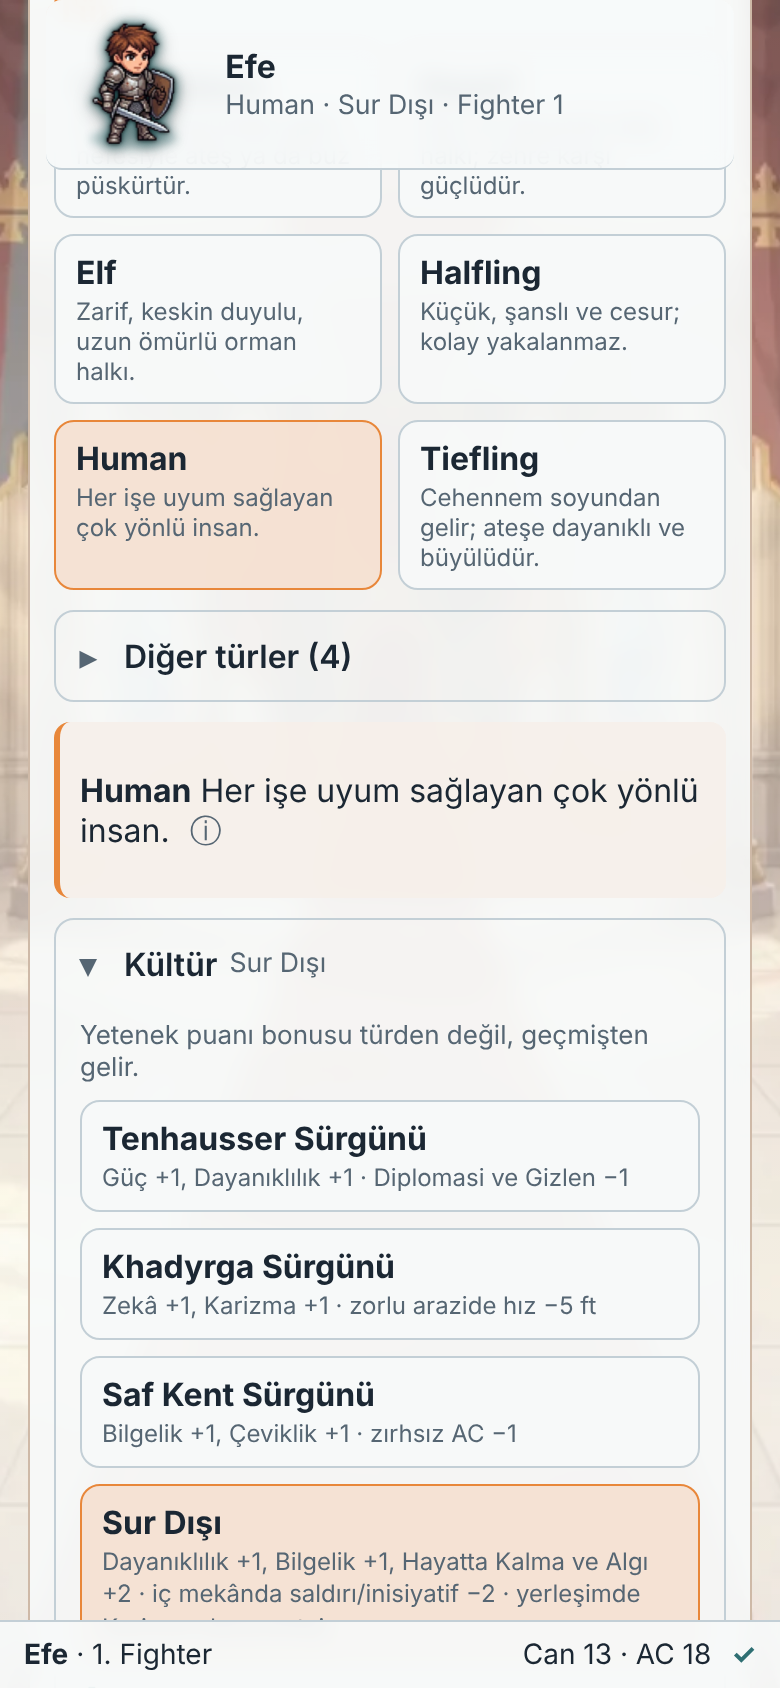
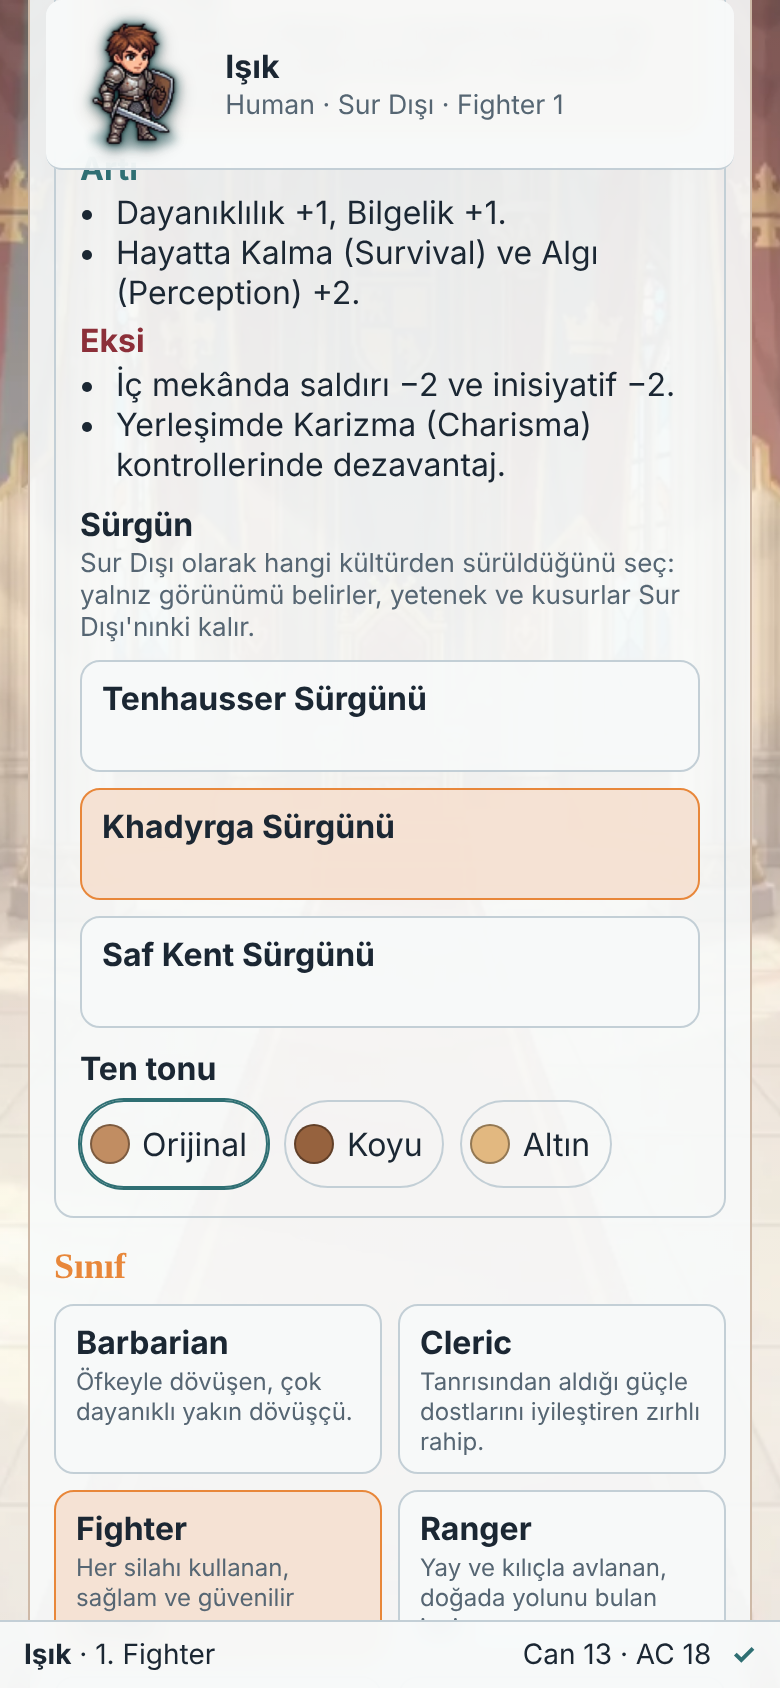
AS1b duzeltmesi: Human kulturleri eksiz (Tenhausser, Khadyrga, Saf Kent, Sur Disi), Sur Disi'nda Surgun secimi (yalniz gorunum), kultur-ten eslemesi bos
altSoy41.test.tsx beklentileri guncellendi: kullanici karari (adlarda Surgunu eki yok, kulturTen bos).

Claude-Session: https://claude.ai/code/session_01QX2JP9fDy5HJooyXwp1KYQ

diff --git a/src/rules/as1bSurgun.test.tsx b/src/rules/as1bSurgun.test.tsx
@@ -1,0 +1,69 @@
+/**
+ * Görev AS1b düzeltmesi (kullanıcı): Human kültürleri Tenhausser, Khadyrga, Saf Kent, Sur Dışı ("Sürgünü" eki yok). Sur Dışı
+ * seçilince ek "Sürgün" seçimi (yalnız üç kültür; yalnız görünüm, buff/debuff Sur Dışı'nınki). Başka kültürde görünmez,
+ * Sur Dışı'ndan çıkınca sıfırlanır. Kültür–ten eşlemesi boşken üç ton serbest; eşleme dolunca (yalnız veri) sürgün tonu belirler.
+ */
+import { afterEach, describe, expect, it } from 'vitest';
+import { renderToStaticMarkup } from 'react-dom/server';
+import { Builder } from '../screens/Builder';
+import { blankCharacter, type SavedCharacter } from './builder';
+import { setLang } from '../i18n';
+import { races } from '../data';
+import { lineageSummary } from './lineage';
+import { CULTURE_SKIN, EXILE, exileName, exileOf, exileOptions, pickCulture, SKIN_TONES, toneAfter, tonesFor } from '../ui/lineageLook';
+
+const char = (patch: Partial<SavedCharacter['sheet']>): SavedCharacter => { const b = blankCharacter('as1b'); return { ...b, sheet: { ...b.sheet, name: 'Alt', ...patch } }; };
+const html = (c: SavedCharacter) => renderToStaticMarkup(<Builder initial={c} onSave={() => {}} onCancel={() => {}} step="character" />);
+const human = () => races.find((r) => r.id === 'human');
+
+afterEach(() => setLang('tr'));
+
+describe('AS1b düzeltmesi: Human kültürleri ve Sur Dışı sürgünü', () => {
+  it('kültür adları ekisiz; Sur Dışı\'nda Sürgün seçimi yalnız üç seçenekle; diğer kültürlerde yok', () => {
+    expect(human()?.lineages?.map((l) => l.ad?.tr)).toEqual(['Tenhausser', 'Khadyrga', 'Saf Kent', 'Sur Dışı']);
+    const out = html(char({ raceId: 'human', lineageId: 'outwall' }));
+    expect((out.match(/class="pick-card exile-card( on)?"/g) ?? []).length).toBe(3);
+    for (const n of ['Tenhausser Sürgünü', 'Khadyrga Sürgünü', 'Saf Kent Sürgünü']) expect(out).toContain(n);
+    expect(exileOptions('outwall')).toEqual(['tenhausser', 'khadyrga', 'pure-city']);
+    for (const k of ['tenhausser', 'khadyrga', 'pure-city']) {
+      expect(exileOptions(k)).toEqual([]);
+      expect(html(char({ raceId: 'human', lineageId: k }))).not.toContain('exile-card');
+    }
+  });
+  it('Sur Dışı\'ndan çıkınca sürgün sıfırlanır; Sur Dışı\'nda kalınca korunur; geçersiz sürgün yok sayılır', () => {
+    const s = { lineageId: 'outwall', exileCulture: 'khadyrga', skinTone: 'siyahi' };
+    expect(pickCulture(s, 'tenhausser').exileCulture).toBeUndefined();
+    expect(pickCulture(s, 'outwall').exileCulture).toBe('khadyrga');
+    expect(exileOf('outwall', 'outwall')).toBeUndefined();
+    expect(exileOf('tenhausser', 'khadyrga')).toBeUndefined();
+  });
+  it('buff/debuff her zaman Sur Dışı\'nınki (sürgün seçimi değiştirmez)', () => {
+    const outwall = human()?.lineages?.find((l) => l.id === 'outwall');
+    const a = html(char({ raceId: 'human', lineageId: 'outwall' }));
+    const b = html(char({ raceId: 'human', lineageId: 'outwall', exileCulture: 'tenhausser' }));
+    const sum = outwall ? lineageSummary(outwall, 'tr') : '';
+    expect(sum.length).toBeGreaterThan(0);
+    expect(a).toContain(sum); expect(b).toContain(sum);
+    expect(b.replace(/ on"/g, '"').replace(/aria-checked="true"/g, 'aria-checked="false"')).toBe(a.replace(/ on"/g, '"').replace(/aria-checked="true"/g, 'aria-checked="false"'));
+  });
+  it('eşleme boşken üç ton serbest; eşleme tek tona inince (yalnız veri) sürgün görünümü belirler', () => {
+    expect(CULTURE_SKIN).toEqual({});
+    expect(tonesFor('outwall', 'tenhausser')).toEqual(SKIN_TONES);
+    expect(toneAfter('outwall', 'tenhausser', 'siyahi')).toBe('siyahi');
+    CULTURE_SKIN.tenhausser = ['dogu-asyali'];
+    try {
+      expect(tonesFor('outwall', 'tenhausser').map((t) => t.id)).toEqual(['dogu-asyali']);
+      expect(toneAfter('outwall', 'tenhausser', 'siyahi')).toBe('dogu-asyali');
+      expect(tonesFor('outwall', 'khadyrga')).toEqual(SKIN_TONES);
+    } finally { delete CULTURE_SKIN.tenhausser; }
+  });
+  it('eski kayıt (sürgün alanı yok) etkilenmez; TR/EN metinler', () => {
+    expect(html(char({ raceId: 'human', lineageId: 'outwall' }))).toContain('Sürgün');
+    expect(Object.keys(EXILE.ad).sort()).toEqual(['khadyrga', 'pure-city', 'tenhausser']);
+    expect(exileName('pure-city', 'en')).toBe('Pure City Exile');
+    setLang('en');
+    const en = html(char({ raceId: 'human', lineageId: 'outwall' }));
+    expect(en).toContain('Tenhausser Exile');
+    expect(en).toContain('Exile');
+  });
+});

diff --git a/src/screens/Builder.tsx b/src/screens/Builder.tsx
@@ -42,7 +42,7 @@ import { AvatarBadge, CharacterFigure, preloadImages } from '../ui/Avatar';
 import { abilityTip, lineageAbilityList, lineageLine } from '../ui/lineageText';
 import { lineageName, lineageOf, lineageSummary, raceDarkvision, raceSpeed, type LineageAbility } from '../rules/lineage';
 import { lineageNotes } from '../ui/lineageNotes';
-import { skinToneOf, tonesFor } from '../ui/lineageLook';
+import { exileName, exileOptions, pickCulture, skinToneOf, toneAfter, tonesFor } from '../ui/lineageLook';
 import { MI_LISTS, backgroundOf, backgroundSkills, backgrounds, bonusesOf, magicInitiateAll, magicInitiateOf, magicInitiateOptions, originFeatOf, otherSkillMax, type MagicInitiatePick } from '../rules/backgrounds';
 import { armorDetail, armorSummary, itemDetail, itemSummary, weaponDetail, weaponSummary } from '../ui/equipmentText';
 import { getLang, t } from '../i18n';
@@ -426,7 +426,7 @@ function RaceStep({ sheet: s, set }: { sheet: CharacterSheet; set: (patch: Parti
   const others = races.filter((r) => !RACE_FEATURED.includes(r.id));
   const card = (r: (typeof races)[number]) => (
     <button key={r.id} className={`pick-card${r.id === s.raceId ? ' on' : ''}`} aria-pressed={r.id === s.raceId}
-      onClick={() => set({ raceId: r.id, lineageId: r.lineages?.[0]?.id })}>
+      onClick={() => set({ raceId: r.id, lineageId: r.lineages?.[0]?.id, exileCulture: undefined })}>
       <b>{r.name}</b><small>{raceBlurb(r.id, lang)}</small>
     </button>
   );
@@ -457,7 +457,7 @@ function RaceStep({ sheet: s, set }: { sheet: CharacterSheet; set: (patch: Parti
           <div className="card-grid lineage-grid" role="radiogroup" aria-label={W.lineageTitle}>
             {(race.lineages ?? []).map((l) => (
               <button key={l.id} role="radio" aria-checked={l.id === lineage?.id} className={`pick-card lineage-card${l.id === lineage?.id ? ' on' : ''}`}
-                onClick={() => set({ lineageId: l.id })}>
+                onClick={() => set(race.id === 'human' ? pickCulture(s, l.id) : { lineageId: l.id })}>
                 <b>{lineageName(l, lang)}</b>
                 <small>{lineageSummary(l, lang)}</small>
               </button>
@@ -467,10 +467,28 @@ function RaceStep({ sheet: s, set }: { sheet: CharacterSheet; set: (patch: Parti
           {lineage && <LineageNotes raceId={race.id} lineage={lineage} />}
           {race.id === 'human' && (
             <>
+              {/* Görev AS1b düzeltmesi: Sur Dışı'nda "Sürgün" seçimi (yalnız görünüm; buff/debuff Sur Dışı'nınki). */}
+              {exileOptions(s.lineageId).length > 0 && (
+                <>
+                  <h4 className="lineage-title">{W.exileTitle}</h4>
+                  <p className="mute race-note">{W.exileHelp}</p>
+                  <div className="card-grid lineage-grid exile-grid" role="radiogroup" aria-label={W.exileTitle}>
+                    {exileOptions(s.lineageId).map((id) => {
+                      const on = s.exileCulture === id;
+                      return (
+                        <button key={id} type="button" role="radio" aria-checked={on} className={`pick-card exile-card${on ? ' on' : ''}`} data-exile={id}
+                          onClick={() => set({ exileCulture: id, skinTone: toneAfter(s.lineageId, id, s.skinTone) })}>
+                          <b>{exileName(id, lang)}</b>
+                        </button>
+                      );
+                    })}
+                  </div>
+                </>
+              )}
               <h4 className="lineage-title">{W.skinTitle}</h4>
               {/* Kuyruk AS1a: ten tonu kültürden bağımsız ayrı seçim (kültür–ten eşlemesi veride boş). */}
               <div className="skin-tones" role="radiogroup" aria-label={W.skinTitle}>
-                {tonesFor(s.lineageId).map((tone) => {
+                {tonesFor(s.lineageId, s.exileCulture).map((tone) => {
                   const on = skinToneOf(s.skinTone)?.id === tone.id;
                   return (
                     <button key={tone.id} type="button" role="radio" aria-checked={on} className={`skin-tone${on ? ' on' : ''}`} data-tone={tone.id} onClick={() => set({ skinTone: tone.id })}>

diff --git a/src/ui/lineageLook.ts b/src/ui/lineageLook.ts
@@ -30,7 +30,8 @@ const D = data as unknown as {
   orijinal: string[];
   celestialUyanis: Record<string, { hale: boolean; filtre?: string; kanat?: string }>;
   hale: { gizleUstYuzde: number };
-  ten: { varsayilan: string; filtreUygula: boolean; tonlar: SkinTone[]; kulturTen: Record<string, string[]> };
+  ten: { varsayilan: string; filtreUygula: boolean; tonlar: SkinTone[]; kulturTen: Record<string, string[]>;
+    surgun: { kultur: string; secenekler: string[]; ad: Record<string, { tr: string; en: string }> } };
 };
 /** Celestial Göksel Uyanış 3. seviyeden etkin (`data/celestial.json` `awakening.minLevel`; test eşitliği denetler). */
 export const AWAKENING_FROM = 3;
@@ -40,7 +41,34 @@ export const SKIN_TONES: SkinTone[] = D.ten.tonlar;
 export const DEFAULT_SKIN_TONE = D.ten.varsayilan;
 /** Kültür (alt soy) → seçilebilecek ten tonları (`ten.kulturTen`; AS1b'de üç kültürde de üç ton). */
 export const CULTURE_SKIN: Record<string, string[]> = D.ten.kulturTen;
-export const tonesFor = (lineageId: string | undefined): SkinTone[] => SKIN_TONES.filter((t) => !lineageId || !CULTURE_SKIN[lineageId] || CULTURE_SKIN[lineageId]!.includes(t.id));
+/** Görev AS1b düzeltmesi: Sur Dışı'nın "Sürgün" seçimi (veri `ten.surgun`). */
+export const EXILE = D.ten.surgun;
+/** Bu kültürde sürgün seçimi var mı; varsa seçenekler (yalnız üç kültür). */
+export const exileOptions = (lineageId: string | undefined): string[] => (lineageId && lineageId === EXILE.kultur ? EXILE.secenekler : []);
+export const exileName = (id: string, lang: 'tr' | 'en'): string => EXILE.ad[id]?.[lang] ?? id;
+/** Geçerli sürgün kültürü (Sur Dışı değilse ya da listede yoksa yok). */
+export const exileOf = (lineageId: string | undefined, exile: string | undefined): string | undefined =>
+  exile && exileOptions(lineageId).includes(exile) ? exile : undefined;
+/**
+ * Seçilebilir ten tonları: kültürün (Sur Dışı'nda seçili sürgün kültürünün) `kulturTen` satırından; satır yok ya da boşsa bütün
+ * tonlar serbest. Satır tek tona inerse görünümü o belirler (oluşturucu kendiliğinden seçer).
+ */
+export const tonesFor = (lineageId: string | undefined, exile?: string): SkinTone[] => {
+  const key = exileOf(lineageId, exile) ?? lineageId;
+  const list = key ? CULTURE_SKIN[key] : undefined;
+  return list?.length ? SKIN_TONES.filter((t) => list.includes(t.id)) : SKIN_TONES;
+};
+/** Kültür/sürgün değişince ton: izinli değilse ya da tek ton varsa ilk izinli ton; yoksa aynen. */
+export function toneAfter(lineageId: string | undefined, exile: string | undefined, current: string | undefined): string | undefined {
+  const ts = tonesFor(lineageId, exile);
+  if (ts.length === SKIN_TONES.length && ts.length > 1) return current;
+  return ts.length === 1 || !ts.some((t) => t.id === current) ? ts[0]?.id ?? current : current;
+}
+/** Kültür seçimi: Sur Dışı'ndan çıkınca sürgün seçimi sıfırlanır; ton izinli değilse ilk izinliye. */
+export function pickCulture(sheet: { lineageId?: string; exileCulture?: string; skinTone?: string }, lineageId: string): { lineageId: string; exileCulture: string | undefined; skinTone: string | undefined } {
+  const exile = exileOf(lineageId, sheet.exileCulture);
+  return { lineageId, exileCulture: exile, skinTone: toneAfter(lineageId, exile, sheet.skinTone) };
+}
 /** Kuyruk AS1a-2: boyasız ORİJİNAL jetonla gelen alt soylar (`<ırk>/<alt soy>`; filtre/tint/maske yok, yalnız oran). */
 export const ORIGINAL_LINEAGES: string[] = D.orijinal;
 export const isOriginalLineage = (key: string): boolean => D.orijinal.includes(key);

diff --git a/src/rules/altSoy41.test.tsx b/src/rules/altSoy41.test.tsx
@@ -138,12 +138,14 @@ describe('oluşturucu: soy kartları', () => {
   it('Human: 4 kültür kartı + ayrı ten tonu seçici; ten kültüre bağlı değil (eşleme alanı boş)', () => {
     const m = html(char({ raceId: 'human', lineageId: 'khadyrga' }));
     expect((m.match(/lineage-card/g) ?? []).length).toBeGreaterThanOrEqual(4);
-    for (const n of ['Tenhausser Sürgünü', 'Khadyrga Sürgünü', 'Saf Kent Sürgünü', 'Sur Dışı']) expect(m, n).toContain(n);
+    // AS1b düzeltmesi (kullanıcı): ilk üç kültürün adında "Sürgünü" eki yok.
+    for (const n of ['Tenhausser', 'Khadyrga', 'Saf Kent', 'Sur Dışı']) expect(m, n).toContain(n);
+    expect(m).not.toContain('Sürgünü');
     expect(m).toContain('Kültür');
     expect((m.match(/class="skin-tone( on)?"/g) ?? []).length).toBe(3);
     expect(SKIN_TONES.map((t) => t.id)).toEqual(['orijinal', 'siyahi', 'dogu-asyali']);
-    // AS1b: her kültür üç tonu da seçebilir.
-    for (const k of ['tenhausser', 'khadyrga', 'pure-city', 'outwall']) expect(CULTURE_SKIN[k]).toEqual(['orijinal', 'siyahi', 'dogu-asyali']);
+    // AS1b düzeltmesi (kullanıcı): kültür–ten eşlemesi BOŞ (kullanıcı dolduracak); satır yokken üç ton serbest.
+    expect(CULTURE_SKIN).toEqual({});
     expect(html(char({ raceId: 'elf', lineageId: 'drow' }))).not.toContain('skin-tone');
   });
   it('seçili alt soyun buff/debuff açıklaması ve "planlı" etiketi görünür; İngilizce metin de var', () => {

diff --git a/src/i18n/strings.ts b/src/i18n/strings.ts
@@ -332,7 +332,7 @@ const tr = {
       // Kuyruk AS1a: alt soy buff/debuff açıklamaları (yalnızca metin; etkisi henüz oyunda çalışmıyor).
       lineageBuff: 'Artı', lineageDebuff: 'Eksi', lineageStatus: { calisir: 'çalışır', kismi: 'kısmi', planli: 'planlı' } as Record<string, string>, lineageNotYet: 'Bu etkiler henüz oyunda çalışmıyor (planlı); şimdilik yalnızca açıklama.',
       lineageOptionalHint: 'Alt soy seçilmedi: seçene dek alt soy etkisi yok.',
-      skinTitle: 'Ten tonu', skinHelp: 'Ten tonu kültürden bağımsızdır; istediğin kültürle istediğin tonu seçebilirsin.',
+      skinTitle: 'Ten tonu', exileTitle: 'Sürgün', exileHelp: 'Sur Dışı olarak hangi kültürden sürüldüğünü seç: yalnız görünümü belirler, yetenek ve kusurlar Sur Dışı\'nınki kalır.', skinHelp: 'Ten tonu kültürden bağımsızdır; istediğin kültürle istediğin tonu seçebilirsin.',
       cultureTitle: 'Kültür',
       lineageAbilities: 'Soy yetenekleri', preview: 'Jeton önizlemesi',
       notInGame: 'henüz oyunda yok', offCombat: 'savaş dışı: Game Master anlatır',

diff --git a/src/i18n/strings.en.ts b/src/i18n/strings.en.ts
@@ -315,7 +315,7 @@ export const en: Strings = {
       // Kuyruk AS1a: sub-lineage buff/debuff descriptions (text only; effects do not work in the game yet).
       lineageBuff: 'Plus', lineageDebuff: 'Minus', lineageStatus: { calisir: 'works', kismi: 'partial', planli: 'planned' } as Record<string, string>, lineageNotYet: 'These effects do not work in the game yet (planned); description only for now.',
       lineageOptionalHint: 'No sub-lineage chosen: no sub-lineage effect until you pick one.',
-      skinTitle: 'Skin tone', skinHelp: 'Skin tone is independent of culture; pick any tone with any culture.',
+      skinTitle: 'Skin tone', exileTitle: 'Exile', exileHelp: 'As an Outwall, pick the culture you were exiled from: it only sets your look; traits and flaws stay Outwall\'s.', skinHelp: 'Skin tone is independent of culture; pick any tone with any culture.',
       cultureTitle: 'Culture',
       lineageAbilities: 'Lineage abilities', preview: 'Token preview',
       notInGame: 'not in the game yet', offCombat: 'out of combat: the Game Master narrates',

diff --git a/src/rules/stats.ts b/src/rules/stats.ts
@@ -62,6 +62,8 @@ export interface CharacterSheet {
   soyKapali?: true;
   /** Kuyruk AS1a: Human ten tonu (`data/alt-soy-gorunum.json` `ten.tonlar`); kültürden bağımsız, yalnızca görünüm. */
   skinTone?: string;
+  /** Görev AS1b düzeltmesi: Human Sur Dışı'nın sürgün kültürü (yalnız görünüm; buff/debuff Sur Dışı'nınki). Eski kayıtta yok. */
+  exileCulture?: string;
   /** Taşıdığı silahlar (data/weapons.json adları), isteğe bağlı büyülü bonusla. */
   weapons?: Array<{ name: string; enchant?: number }>;
   /** Yan eldeki Light silah (data/weapons.json adı; Görev P1): Light özelliğinin ek saldırısı. Kalkanla olmaz. */

diff --git a/src/styles.css b/src/styles.css
@@ -1367,3 +1367,4 @@ button.cta.soft { opacity: .65; }
 .setup-mount { display: flex; flex-wrap: wrap; gap: 6px; align-items: center; max-width: min(100%, 420px); }
 .setup-mount small { flex-basis: 100%; }
 .preview-card .pv-mount span { white-space: normal; }
+.pick-card.exile-card { min-height: 0; }

diff --git a/DECISIONS.md b/DECISIONS.md
@@ -2,6 +2,14 @@
 
 Projede alınan içerik ve kural kararlarının kaydı. En yeni karar en üstte.
 
+## 2026-11-12 — Görev AS1b düzeltmesi (kullanıcı): Human kültürleri ve Sur Dışı sürgünü (yalnız oluşturucu/görünüm; kural sürümü 77, kayıt sürümü değişmedi)
+
+- **Adlar:** kültür kartları Tenhausser, Khadyrga, Saf Kent (EN Pure City), Sur Dışı; ilk üçünde "Sürgünü/Exile" eki kalktı (`data/races.json` `ad`; hizalanma gerekçe metinleri de). Kart buff/debuff metinleri aynen.
+- **Kültür–ten eşlemesi BOŞ** (`data/alt-soy-gorunum.json` `ten.kulturTen: {}`; AS1c'de üç kültüre üç ton açıktı). Ten tonu seçicisi (Orijinal/Koyu/Altın) aynen.
+- **Sur Dışı sürgünü:** Sur Dışı seçilince "Sürgün" seçimi: Tenhausser Sürgünü, Khadyrga Sürgünü, Saf Kent Sürgünü (veri `ten.surgun`: kültür, seçenekler, TR/EN ad). Karakterde isteğe bağlı `exileCulture` (eski kayıtta yok, etkilenmez). Yalnız görünüm: buff/debuff ve mekanik her zaman Sur Dışı'nınki. Başka kültürde seçim görünmez; Sur Dışı'ndan çıkınca ya da tür değişince sıfırlanır (`lineageLook.ts` `pickCulture`).
+- **Geçici davranış:** sürgün kültürünün `kulturTen` satırı yok/boşken üç ton serbest; satır tek tona inince o ton kendiliğinden seçilir ve seçici yalnız onu gösterir (`tonesFor`, `toneAfter`; yalnız veri doldurulur, kod değişmez). Aynı kural Sur Dışı dışındaki kültürlerin kendi satırına da uygulanır.
+- **Testler:** `src/rules/as1bSurgun.test.tsx` (5); `altSoy41.test.tsx` beklentileri güncellendi (gerekçe: kullanıcı kararı: adlar ekisiz, eşleme boş). Ekran görüntüsü `docs/as1b/karakter-adimi-mobil.png` yenilendi (Sur Dışı + Sürgün seçimi).
+
 ## 2026-11-12 — Görev AS2 (toplu): DURDU — yalnız envanter (kod değişmedi; kural sürümü 77'de kaldı, 78 kullanılmadı)
 
 - Envanter `harita/belgeler/AS2-ENVANTER.md` (kimlik/ad/sayı; paket metni yok).

diff --git a/docs/ALT-SOY-41.md b/docs/ALT-SOY-41.md
@@ -31,9 +31,9 @@
 | Goliath | Storm's Thunder / Storm's Thunder | — (özet satırında; mevcut soy) | Gizlen (Stealth) kontrollerinde dezavantaj. | -3 / +2 | çalışır |
 | Halfling | İnce / Slender Halfling | Çeviklik +1.; Hız +5 ft. | Güç (Strength) kontrollerinde dezavantaj. | -1 / +5 | çalışır |
 | Halfling | Kalın / Sturdy Halfling | Güç +1, Dayanıklılık +1.; Taşıma kapasiten ×1,5. | Hızın −5 ft. | +5 / +5 | çalışır |
-| Human | Tenhausser Sürgünü / Tenhausser Exile | Güç +1, Dayanıklılık +1. | Diplomasi (Persuasion) ve Gizlen (Stealth) kontrollerinde −1. | +8 / -2 | çalışır |
-| Human | Khadyrga Sürgünü / Khadyrga Exile | Zekâ +1, Karizma +1. | Zorlu arazide hızın −5 ft. | -3 / -3 | çalışır |
-| Human | Saf Kent Sürgünü / Pure City Exile | Bilgelik +1, Çeviklik +1. | Zırhsızken AC −1. | +3 / +3 | çalışır |
+| Human | Tenhausser / Tenhausser | Güç +1, Dayanıklılık +1. | Diplomasi (Persuasion) ve Gizlen (Stealth) kontrollerinde −1. | +8 / -2 | çalışır |
+| Human | Khadyrga / Khadyrga | Zekâ +1, Karizma +1. | Zorlu arazide hızın −5 ft. | -3 / -3 | çalışır |
+| Human | Saf Kent / Pure City | Bilgelik +1, Çeviklik +1. | Zırhsızken AC −1. | +3 / +3 | çalışır |
 | Human | Sur Dışı / Outwall | Dayanıklılık +1, Bilgelik +1.; Hayatta Kalma (Survival) ve Algı (Perception) +2. | İç mekânda saldırı −2 ve inisiyatif −2.; Yerleşimde Karizma (Charisma) kontrollerinde dezavantaj. | -8 / +2 | çalışır |
 | Orc | Buzul / Glacier Orc | Soğuk hasarına direnç. | Ateş hasarına karşı kurtarma zarlarında dezavantaj. | +7 / -3 | çalışır |
 | Orc | Orman / Wildwood Orc | Bitkisel zorlu araziyi yok sayarsın. | Zehir hasarına karşı kurtarma zarlarında dezavantaj. | +3 / -1 | çalışır |
